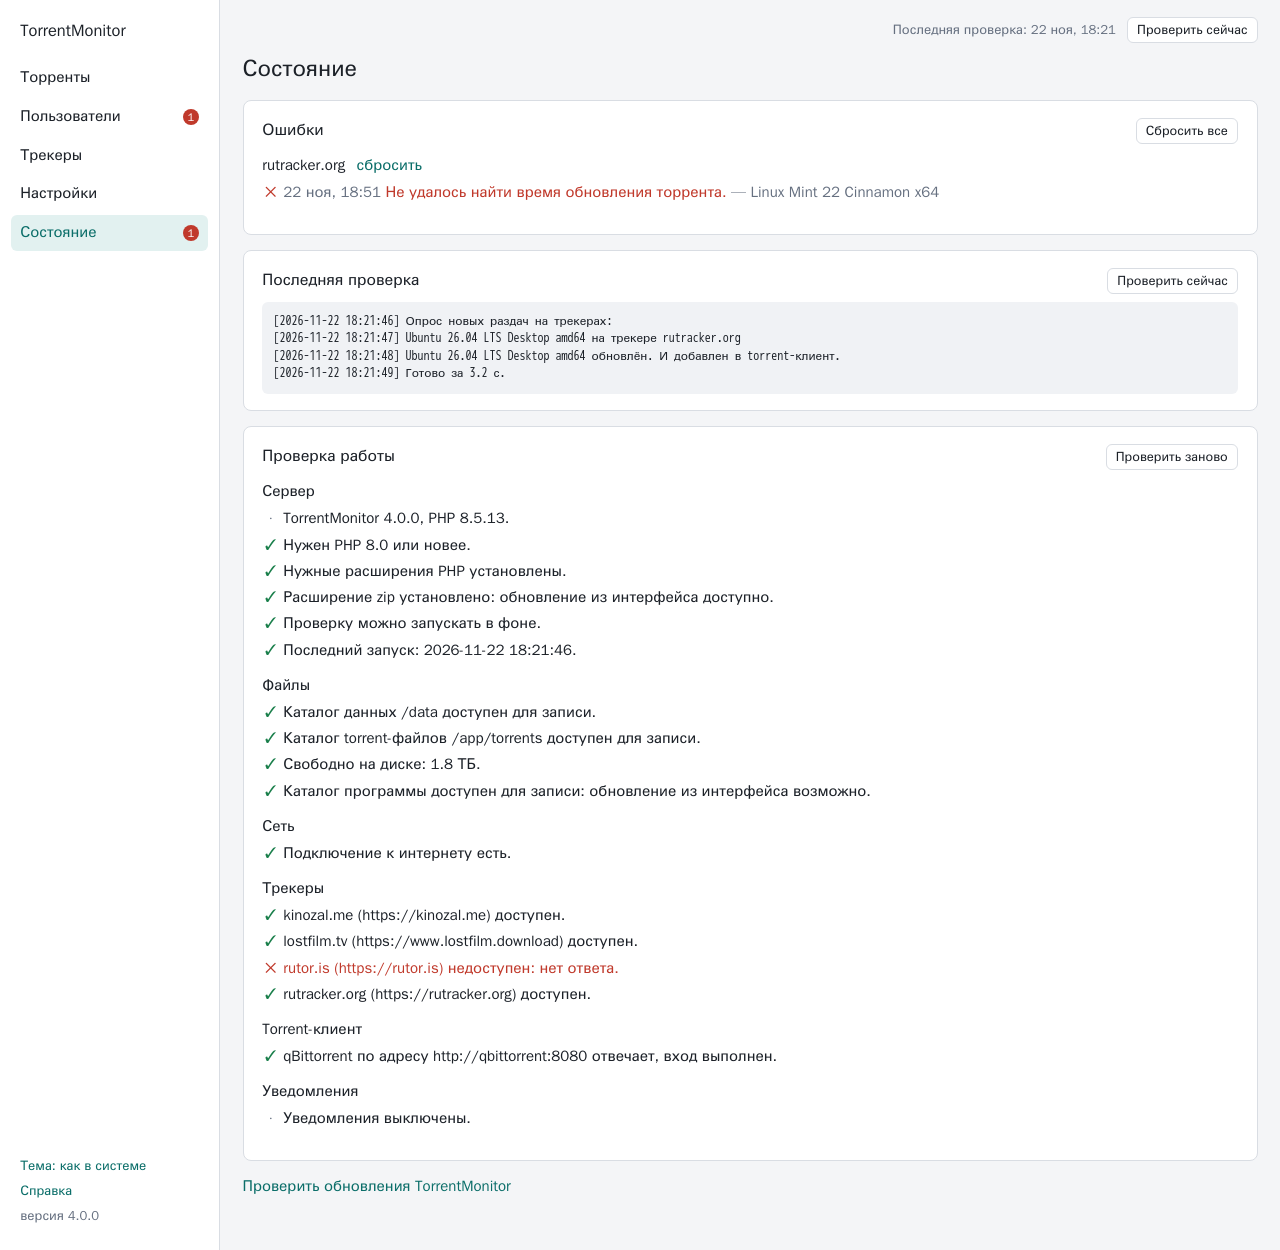
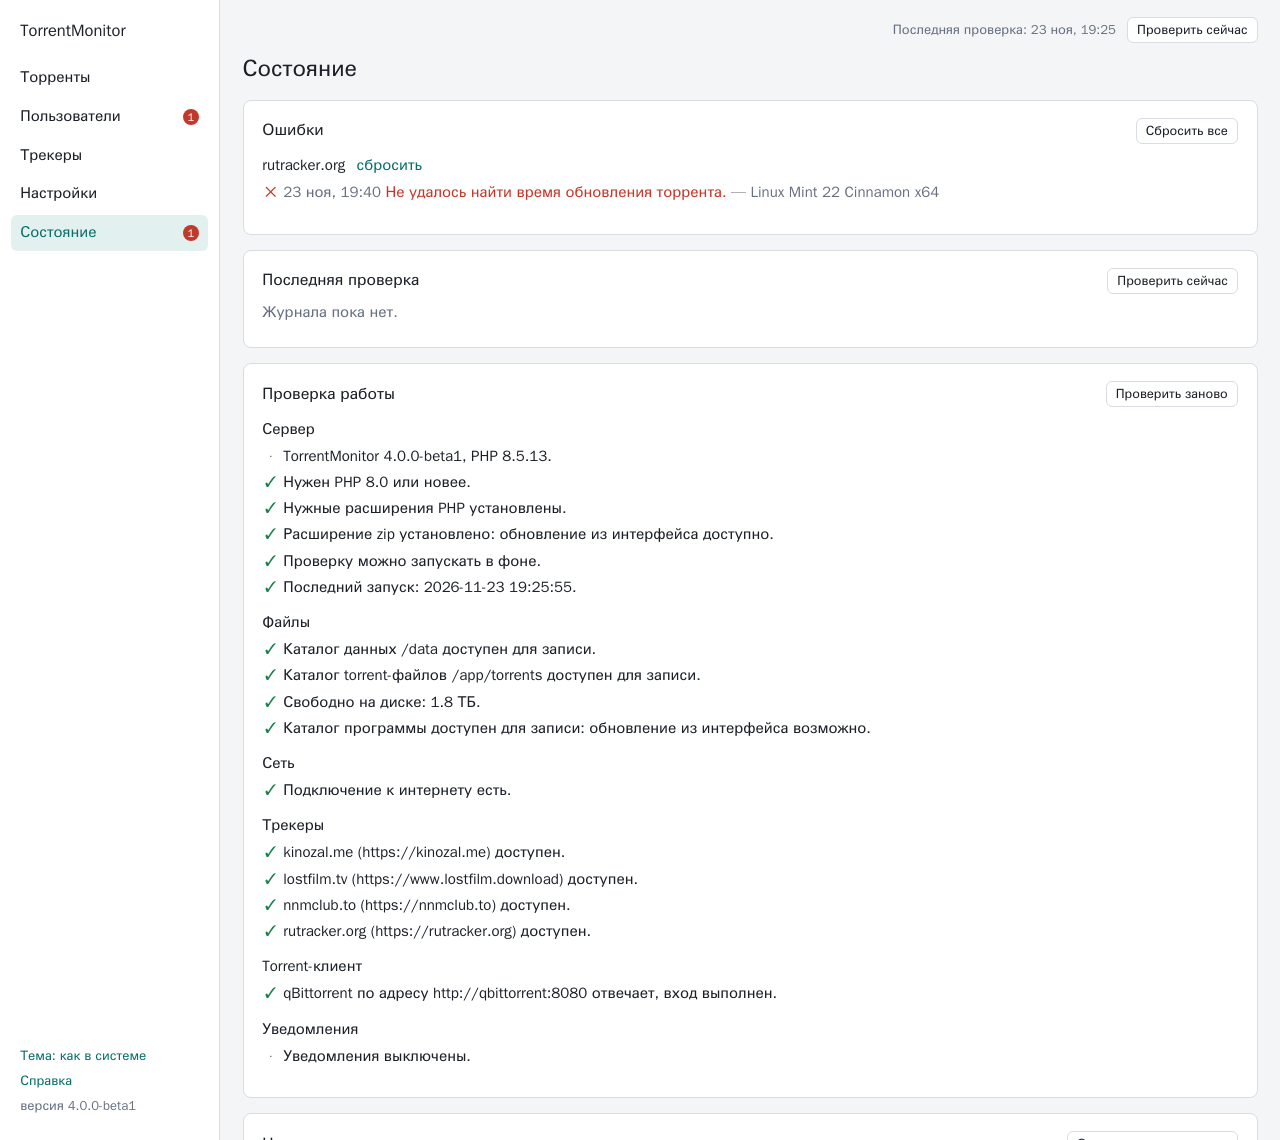
Version 4.0.0-beta1; screenshots retaken by a command; pre-releases in the release script

diff --git a/tests/tools/demo-data.php b/tests/tools/demo-data.php
@@ -1,0 +1,34 @@
+<?php
+// Fills the application of the test stack with made-up data for the screenshots in
+// wiki/images. Run by: tests/run.sh screenshots
+require '/app/src/bootstrap.php';
+
+use TorrentMonitor\Data\Accounts;
+use TorrentMonitor\Data\News;
+use TorrentMonitor\Data\Settings;
+use TorrentMonitor\Data\State;
+use TorrentMonitor\Data\Topics;
+use TorrentMonitor\Data\Users;
+use TorrentMonitor\Data\Warnings;
+
+Settings::setMany(array(
+    'auth' => '0', 'serverAddress' => 'http://tm.local/', 'ApiKey' => 'demo', 'useTorrent' => '1', 'torrentClient' => 'qBittorrent',
+    'torrentAddress' => 'http://qbittorrent:8080', 'torrentLogin' => 'tm', 'torrentPassword' => 'tm-test-pass', 'pathToDownload' => '/downloads/',
+));
+foreach (array('rutracker.org', 'kinozal.me', 'lostfilm.tv', 'nnmclub.to') as $tracker)
+    Accounts::set($tracker, array('login' => 'demo', 'password' => 'demo'));
+
+$day = function ($ago, $time) { return date('Y-m-d', time() - $ago * 86400).' '.$time; };
+Topics::add(array('tracker' => 'rutracker.org', 'topicId' => '1001', 'name' => 'Ubuntu 26.04 LTS Desktop amd64', 'updatedAt' => $day(1, '10:05:00'),
+    'category' => 'linux', 'path' => '/downloads/iso/', 'autoRename' => TRUE));
+Topics::add(array('tracker' => 'lostfilm.tv', 'name' => 'Pioneer One', 'quality' => '1080', 'episode' => 'S01E06', 'updatedAt' => $day(4, '21:00:00')));
+Topics::add(array('tracker' => 'nnmclub.to', 'topicId' => '1002', 'name' => 'Debian 13 netinst', 'updatedAt' => $day(21, '12:00:00')));
+Topics::add(array('tracker' => 'kinozal.me', 'topicId' => '1003', 'name' => 'Big Buck Bunny / 2008 / BDRip 1080p', 'updatedAt' => $day(50, '08:00:00'), 'paused' => TRUE));
+$broken = Topics::add(array('tracker' => 'rutracker.org', 'topicId' => '1004', 'name' => 'Linux Mint 22 Cinnamon x64', 'updatedAt' => $day(110, '08:00:00'), 'error' => TRUE));
+Warnings::add('rutracker.org', 'cant_find_date', $broken);
+
+$user = Users::add('rutracker.org', 'releaser');
+Users::addFound($user, 'rutracker.org', 'Операционные системы', '1005', 'Fedora Workstation 43 Live x86_64', date('Y-m-d'));
+News::put('demo', 'Это пример новости: так выглядит сообщение о новой версии.');
+State::setLastRun(date('Y-m-d H:i:s', time() - 900));
+echo "demo data written\n";

diff --git a/tests/README.md b/tests/README.md
@@ -19,6 +19,7 @@ Docker with Compose v2. PHP is not needed on the host.
 | `tests/run.sh reach` | which trackers answer from here, which show Cloudflare, and whether the solver passes it | – |
 | `tests/run.sh record <tracker> <path> <name>` | save a scrubbed tracker page as a fixture | a running live stack |
 | `tests/run.sh up` / `down` | start the stack for manual work at http://127.0.0.1:8088 / remove it | – |
+| `tests/run.sh screenshots` | retake the interface screenshots in `wiki/images` | – |
 | `tests/run.sh hooks` | install the pre-push hook that blocks pushing secrets | – |
 
 `TM_PHP=8.0 tests/run.sh integration` runs the stack on PHP 8.0 (default 8.5).
@@ -95,10 +96,12 @@ rutracker.org, the notification services other than Gotify and e-mail, SynologyD
 
 ## Screenshots of the interface
 
-Not part of the suite; a manual step for visual checks. Start the stack with
-`tests/run.sh up` (http://127.0.0.1:8088) and take screenshots with headless
-Chrome from the `zenika/alpine-chrome` image pointed at that address.
-`tests/run.sh down` removes the stack.
+`tests/run.sh screenshots` retakes the three pictures the readme shows
+(`wiki/images/topics.png`, `trackers.png`, `status.png`) from the current code: it starts
+the stack, fills it with made-up data (`tests/tools/demo-data.php`) and photographs the
+pages with headless Chrome (`zenika/alpine-chrome`). Run it before a release, and after a
+change of the interface or of the tracker list. The "Состояние" picture shows whether the
+real tracker sites answer from this network.
 
 ## Secrets
 
